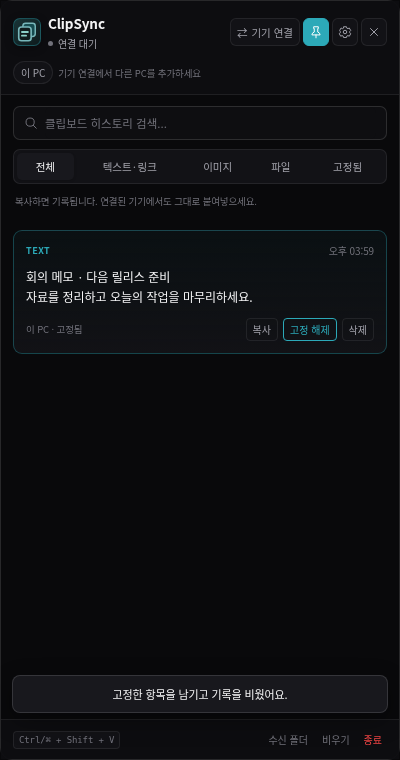
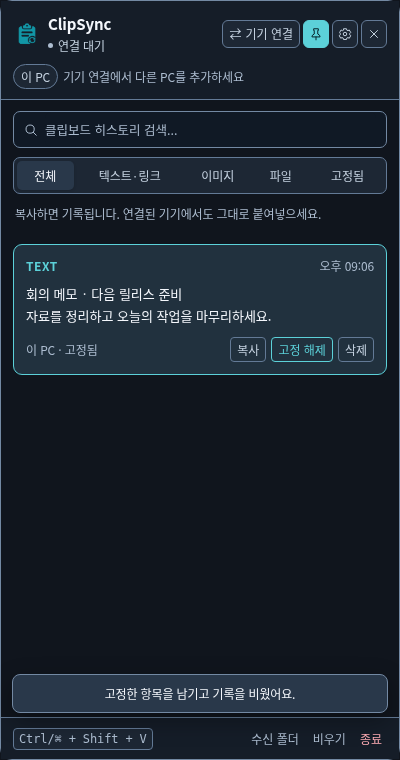
Correct Windows named startup lookup and document verified clipboard reuse

diff --git a/tests/login-startup.test.ts b/tests/login-startup.test.ts
@@ -3,14 +3,14 @@ import { test } from 'node:test';
 import { LoginStartup } from '../src/main/login-startup';
 
 function native(packaged = true) {
-  let state = { openAtLogin: false, wasOpenedAtLogin: false, executableWillLaunchAtLogin: false, status: 'not-registered' };
+  let state = { openAtLogin: false, wasOpenedAtLogin: false, executableWillLaunchAtLogin: false, status: 'not-registered', launchItems: [] as { name: string; scope: string; args: string[]; enabled: boolean }[] };
   const calls: Record<string, unknown>[] = [];
   const app = {
     isPackaged: packaged,
     getLoginItemSettings: (options: unknown) => { calls.push({ get: options }); return state; },
     setLoginItemSettings: (options: { openAtLogin: boolean; enabled?: boolean }) => {
       calls.push({ set: options });
-      state = { ...state, openAtLogin: options.openAtLogin, executableWillLaunchAtLogin: options.openAtLogin && options.enabled === true, status: options.openAtLogin ? 'enabled' : 'not-registered' };
+      state = { ...state, openAtLogin: options.openAtLogin, executableWillLaunchAtLogin: options.openAtLogin && options.enabled === true, status: options.openAtLogin ? 'enabled' : 'not-registered', launchItems: options.openAtLogin ? [{ name: 'ClipSync', scope: 'user', args: ['--startup'], enabled: options.enabled === true }] : [] };
     },
   } as unknown as ConstructorParameters<typeof LoginStartup>[0];
   return { app, calls, setState: (patch: Partial<typeof state>) => { state = { ...state, ...patch }; } };
@@ -20,12 +20,14 @@ test('Windows registers the installed executable and hidden-start argument, then
   const n = native(); const path = 'C:\\Users\\한글 이름\\Programs\\ClipSync\\ClipSync.exe';
   const startup = new LoginStartup(n.app, 'win32', path);
   startup.set(true); assert.equal(startup.info().startOnLogin, true);
-  assert.ok(n.calls.some(call => JSON.stringify(call.set) === JSON.stringify({ path, args: ['--startup'], openAtLogin: true, name: 'ClipSync', enabled: true })));
+  n.setState({ openAtLogin: false }); // Electron only queries its default AppUserModelID here.
+  assert.equal(startup.info().startOnLogin, true, 'The custom Run entry remains enabled');
+  assert.ok(n.calls.some(call => JSON.stringify(call.set) === JSON.stringify({ path: `"${path}"`, args: ['--startup'], openAtLogin: true, name: 'ClipSync', enabled: true })));
   startup.set(false); assert.equal(startup.info().startOnLogin, false);
 });
 
 test('Windows respects an externally disabled startup item until the user explicitly enables it', () => {
-  const n = native(); n.setState({ openAtLogin: true, executableWillLaunchAtLogin: false });
+  const n = native(); n.setState({ openAtLogin: false, executableWillLaunchAtLogin: false, launchItems: [{ name: 'ClipSync', scope: 'user', args: ['--startup'], enabled: false }] });
   const startup = new LoginStartup(n.app, 'win32');
   assert.deepEqual(startup.info(), { startOnLogin: false, startupStatus: 'blocked' });
   startup.set(true); assert.equal(startup.info().startupStatus, 'enabled');
@@ -45,4 +47,13 @@ test('development builds and unsupported systems never register Electron as a lo
     assert.equal(startup.startedAtLogin(), false); startup.set(false);
     assert.throws(() => startup.set(true), /설치된 Windows/); assert.deepEqual(n.calls, []);
   }
+});
+
+test('a native settings query failure does not prevent the desktop from starting', () => {
+  const n = native();
+  n.app.getLoginItemSettings = () => { throw new Error('Native service unavailable'); };
+  const startup = new LoginStartup(n.app, 'darwin');
+  assert.deepEqual(startup.info(), { startOnLogin: false, startupStatus: 'unavailable' });
+  assert.equal(startup.startedAtLogin(), false);
+  assert.throws(() => startup.set(true), /자동 시작 설정을 확인/);
 });

diff --git a/src/main/login-startup.ts b/src/main/login-startup.ts
@@ -4,15 +4,24 @@ import type { Preferences } from '../shared/history';
 type NativeLogin = Pick<App, 'isPackaged' | 'getLoginItemSettings' | 'setLoginItemSettings'>;
 export class LoginStartup {
   constructor(private readonly app: NativeLogin, private readonly platform = process.platform, private readonly executable = process.execPath) {}
-  private options() { return this.platform === 'win32' ? { path: this.executable, args: ['--startup'] } : {}; }
+  private options() { return this.platform === 'win32' ? { path: `"${this.executable}"`, args: ['--startup'] } : {}; }
   info(): Pick<Preferences, 'startOnLogin' | 'startupStatus'> {
     if (!this.app.isPackaged || !['win32', 'darwin'].includes(this.platform)) return { startOnLogin: false, startupStatus: 'unsupported' };
-    const native = this.app.getLoginItemSettings(this.options());
+    let native: Electron.LoginItemSettings;
+    try { native = this.app.getLoginItemSettings(this.options()); }
+    catch { return { startOnLogin: false, startupStatus: 'unavailable' }; }
+    if (this.platform === 'win32') {
+      // Electron's openAtLogin only looks up the default AppUserModelID key,
+      // even when setLoginItemSettings uses our custom name. launchItems also
+      // reflects Task Manager's approval state for this specific user entry.
+      const item = native.launchItems.find(item => item.scope === 'user' && item.name === 'ClipSync' && item.args.length === 1 && item.args[0] === '--startup');
+      return { startOnLogin: item?.enabled === true, startupStatus: !item ? 'disabled' : item.enabled ? 'enabled' : 'blocked' };
+    }
     if (this.platform === 'darwin' && native.status === 'requires-approval') return { startOnLogin: true, startupStatus: 'requires-approval' };
-    if (this.platform === 'win32' && native.openAtLogin && !native.executableWillLaunchAtLogin) return { startOnLogin: false, startupStatus: 'blocked' };
     return { startOnLogin: native.openAtLogin, startupStatus: native.openAtLogin ? 'enabled' : 'disabled' };
   }
   set(enabled: boolean) {
+    if (this.info().startupStatus === 'unavailable') throw new Error('자동 시작 설정을 확인할 수 없습니다. 시스템의 로그인 항목 설정을 확인해 주세요.');
     if (this.info().startupStatus === 'unsupported') {
       if (enabled) throw new Error('부팅 시 시작은 설치된 Windows·Mac 앱에서 사용할 수 있습니다.');
       return;
@@ -26,6 +35,8 @@ export class LoginStartup {
   }
   startedAtLogin() {
     if (this.info().startupStatus === 'unsupported') return false;
-    return process.argv.includes('--startup') || this.platform === 'darwin' && this.app.getLoginItemSettings(this.options()).wasOpenedAtLogin;
+    if (process.argv.includes('--startup')) return true;
+    try { return this.platform === 'darwin' && this.app.getLoginItemSettings(this.options()).wasOpenedAtLogin; }
+    catch { return false; }
   }
 }

diff --git a/tests/desktop.startup.ts b/tests/desktop.startup.ts
@@ -38,9 +38,10 @@ test('packaged app registers native login startup, restores it, starts hidden an
   await until(async () => !await page.locator('#settings-dialog').isVisible() || Boolean(await page.locator('#settings-error').textContent()));
   assert.equal(await page.locator('#settings-dialog').isVisible(), false, await page.locator('#settings-error').textContent() ?? 'Startup settings were not saved');
   await until(async () => (await page.evaluate(() => window.clipSync.preferences())).startOnLogin);
-  const settings = await app!.evaluate(({ app }) => app.getLoginItemSettings(process.platform === 'win32' ? { path: process.execPath, args: ['--startup'] } : {}));
+  const settings = await app!.evaluate(({ app }) => app.getLoginItemSettings(process.platform === 'win32' ? { path: `"${process.execPath}"`, args: ['--startup'] } : {}));
   if (process.platform === 'win32') {
-    assert.equal(settings.openAtLogin, true); assert.equal(settings.executableWillLaunchAtLogin, true);
+    assert.equal(settings.executableWillLaunchAtLogin, true);
+    assert.ok(settings.launchItems.some(item => item.name === 'ClipSync' && item.scope === 'user' && item.enabled && item.args[0] === '--startup'));
     const registry = await promisify(execFile)('reg.exe', ['query', 'HKCU\\Software\\Microsoft\\Windows\\CurrentVersion\\Run', '/v', 'ClipSync']);
     assert.ok(registry.stdout.includes('--startup')); assert.ok(registry.stdout.includes('ClipSync.exe'));
   } else {
@@ -62,6 +63,7 @@ test('packaged app registers native login startup, restores it, starts hidden an
   await page.getByRole('checkbox', { name: '부팅 시 시작', exact: true }).uncheck();
   await page.getByRole('button', { name: '설정 저장' }).click();
   await until(async () => !(await page.evaluate(() => window.clipSync.preferences())).startOnLogin);
-  const disabled = await app!.evaluate(({ app }) => app.getLoginItemSettings(process.platform === 'win32' ? { path: process.execPath, args: ['--startup'] } : {}));
-  assert.equal(disabled.openAtLogin, false);
+  const disabled = await app!.evaluate(({ app }) => app.getLoginItemSettings(process.platform === 'win32' ? { path: `"${process.execPath}"`, args: ['--startup'] } : {}));
+  if (process.platform === 'win32') assert.ok(!disabled.launchItems.some(item => item.name === 'ClipSync' && item.scope === 'user'));
+  else assert.equal(disabled.openAtLogin, false);
 });

diff --git a/src/renderer/index.ts b/src/renderer/index.ts
@@ -156,8 +156,8 @@ for (const id of ['open-connection', 'open-settings']) element(id).addEventListe
     element<HTMLInputElement>('shortcut-setting').value = preferences.shortcut;
     const startup = element<HTMLInputElement>('start-on-login');
     startup.checked = preferences.startOnLogin;
-    startup.disabled = preferences.startupStatus === 'unsupported';
-    element('startup-note').textContent = preferences.startupStatus === 'requires-approval' ? '시스템 설정 > 일반 > 로그인 항목에서 ClipSync를 허용해 주세요.' : preferences.startupStatus === 'blocked' ? 'Windows 설정 > 앱 > 시작 프로그램에서 ClipSync를 허용해 주세요.' : preferences.startupStatus === 'unsupported' ? '부팅 시 시작은 설치된 Windows·Mac 앱에서 사용할 수 있습니다.' : '컴퓨터에 로그인하면 트레이·메뉴바에서 자동으로 시작합니다.';
+    startup.disabled = preferences.startupStatus === 'unsupported' || preferences.startupStatus === 'unavailable';
+    element('startup-note').textContent = preferences.startupStatus === 'requires-approval' ? '시스템 설정 > 일반 > 로그인 항목에서 ClipSync를 허용해 주세요.' : preferences.startupStatus === 'blocked' ? 'Windows 설정 > 앱 > 시작 프로그램에서 ClipSync를 허용해 주세요.' : preferences.startupStatus === 'unavailable' ? '자동 시작 설정을 확인할 수 없습니다. 시스템의 로그인 항목 설정을 확인해 주세요.' : preferences.startupStatus === 'unsupported' ? '부팅 시 시작은 설치된 Windows·Mac 앱에서 사용할 수 있습니다.' : '컴퓨터에 로그인하면 트레이·메뉴바에서 자동으로 시작합니다.';
     settings.showModal();
   }
 });

diff --git a/src/shared/history.ts b/src/shared/history.ts
@@ -17,7 +17,7 @@ export interface Preferences {
   theme: 'system' | 'dark' | 'light';
   alwaysOnTop: boolean;
   startOnLogin: boolean;
-  startupStatus?: 'unsupported' | 'disabled' | 'enabled' | 'requires-approval' | 'blocked';
+  startupStatus?: 'unsupported' | 'unavailable' | 'disabled' | 'enabled' | 'requires-approval' | 'blocked';
   shortcut: string;
   shortcutAvailable?: boolean;
 }

diff --git a/README.md b/README.md
@@ -9,9 +9,11 @@
 1. 앱을 열고 평소처럼 텍스트, 스크린샷 또는 파일을 복사하세요. 기록을 클릭하거나 **복사**를 누르면 다시 클립보드에 들어갑니다.
 2. 검색, 텍스트·이미지·파일 탭, **고정**으로 필요한 기록을 찾으세요. **비우기**는 고정한 항목을 남기며 원본 파일을 지우지 않습니다.
 3. **기기 연결**에서 영문·숫자 20자리 **연결 키**와 8자 이상의 **비밀번호**를 입력합니다. 한 PC에서 **새 키 만들기**를 누른 뒤 모든 PC에 같은 키와 비밀번호를 입력하세요. 대소문자를 구분하며 한글 비밀번호는 NFC로 정규화합니다.
-4. 각 PC는 동등한 P2P 참여자입니다. 전용 중계 서버나 master PC 없이 같은 네트워크에서는 즉시 직접 탐색하고, 외부망에서는 공개 DHT 탐색을 병행합니다. 직접 연결된 PC 사이에서 암호화한 클립보드를 주고받습니다. 새로 복사한 파일은 다운로드 폴더의 `ClipSync`에 완전히 받은 다음 파일 클립보드에 등록합니다.
+4. 각 PC는 동등한 P2P 참여자입니다. 전용 중계 서버나 master PC 없이 같은 네트워크에서는 즉시 직접 탐색하고, 외부망에서는 공개 DHT 탐색을 병행합니다. 직접 연결된 PC 사이에서 암호화한 클립보드를 주고받습니다. 새로 복사한 파일은 다운로드 폴더의 `ClipSync`에 완전히 받은 다음 파일 클립보드에 등록합니다. 이미 받은 동일 파일은 이름·크기·SHA-256을 확인해 재사용하며, 양쪽이 0.4.6이면 파일 데이터 재전송도 생략합니다.
 5. 한 번 저장한 연결은 앱 재실행·절전 복귀·상대 PC 재실행 후 다시 찾습니다. **연결 해제 및 저장 삭제**를 누르면 이 PC의 자동 연결을 해제합니다. 다른 PC의 설정은 그대로 남으므로 그룹 접근 자체를 바꾸려면 키와 비밀번호를 변경하세요.
 6. 상단 로고와 빈 제목 영역을 드래그하면 창이 이동하며 위치를 기억합니다. 톱니 아이콘으로 환경설정을 엽니다. ×와 Esc는 창을 숨기고, 트레이/메뉴 막대 또는 기본 단축키 `Ctrl/⌘ + Shift + V`로 다시 엽니다. Mac은 숨길 때 Dock에서 빠지고 메뉴바에 남으며, 다시 열면 Dock에 표시됩니다. 오른쪽 아래 **종료**는 앱과 연결을 모두 종료합니다. 저장한 연결은 다음 실행에 복원됩니다.
+
+환경설정의 **부팅 시 시작**을 체크하면 로그인 후 창을 띄우지 않고 트레이·메뉴바에서 시작합니다. 해제하면 OS 자동 시작 등록을 제거합니다. Mac에서 승인이 필요하면 설정 화면의 안내를 따르세요. 창 고정은 상단 핀 버튼으로 사용할 수 있습니다.
 
 기기 연결에서 **일시정지**하면 새 내용의 동기화와 자동 파일 수신을 멈춥니다. 재개할 때 중간에 복사한 개인 내용을 다시 보내지 않습니다. 진행 중인 자동 동기화도 취소합니다. 다른 PC끼리의 직접 연결에는 영향을 주지 않습니다.
 
@@ -89,11 +91,11 @@ npm run test:pair
 
 ## 설치 파일과 검증
 
-[GitHub Releases](https://github.com/limfrog/ClipSync/releases)에서 자기 OS/CPU에 맞는 설치 파일과 `SHA256SUMS.txt`를 받을 수 있습니다. `v0.4.5`는 창 상단 여백에서도 드래그할 수 있도록 수정하고 [투명 배경의 새 A 아이콘](docs/icon-concepts.md)을 적용한 버전입니다. Mac 메뉴바는 배경에 맞춰 흰색·검은색으로 표시되는 단색 템플릿을 사용합니다. 멀티캐스트·브로드캐스트·외부 P2P 탐색과 저장된 연결은 계속 사용합니다. 0.4.0의 저장된 키·비밀번호는 유지합니다. 설치 전 기존 앱을 **종료**하세요. 배포자 인증서 서명과 Apple 공증은 포함하지 않습니다.
+[GitHub Releases](https://github.com/limfrog/ClipSync/releases)에서 자기 OS/CPU에 맞는 설치 파일과 `SHA256SUMS.txt`를 받을 수 있습니다. `v0.4.6`는 [중복 수신 방지·화면 대비와 글자 크기 개선·부팅 시 시작](docs/receipt-startup-verification.md)을 포함합니다. 상단 드래그와 [투명 배경 A 아이콘](docs/icon-concepts.md)도 유지합니다. Mac 메뉴바는 배경에 맞춰 흰색·검은색으로 표시되는 단색 템플릿을 사용합니다. 멀티캐스트·브로드캐스트·외부 P2P 탐색과 저장된 연결은 계속 사용합니다. 0.4.0의 저장된 키·비밀번호는 유지합니다. 설치 전 기존 앱을 **종료**하세요. 배포자 인증서 서명과 Apple 공증은 포함하지 않습니다.
 
 같은 공유기에 연결한 Mac과 Windows에서는 [실물 검증 절차](docs/physical-verification.md)를 따라 **연결 상태 복사** 보고서와 양방향 붙여넣기 결과를 비교할 수 있습니다.
 
-검증 범위와 결과는 [0.4.5 창 이동 검증 기록](docs/window-drag-verification.md), [0.4.4 브로드캐스트 검증 기록](docs/broadcast-discovery-verification.md), [0.4.3 발견 속도 검증 기록](docs/discovery-verification.md) 및 [0.4.0 P2P 검증 기록](docs/p2p-verification.md), 빌드 설정은 [설치 프로그램 안내](docs/installers.md)를 참고하세요. 연결되지 않으면 모든 PC의 키·비밀번호·버전이 일치하는지, UDP와 공개 DHT 접근이 허용되는지 확인하세요. 일부 네트워크는 직접 P2P 연결을 지원하지 않습니다.
+검증 범위와 결과는 [0.4.6 중복 수신·자동 시작 검증](docs/receipt-startup-verification.md), [0.4.5 창 이동 검증 기록](docs/window-drag-verification.md), [0.4.4 브로드캐스트 검증 기록](docs/broadcast-discovery-verification.md), [0.4.3 발견 속도 검증 기록](docs/discovery-verification.md) 및 [0.4.0 P2P 검증 기록](docs/p2p-verification.md), 빌드 설정은 [설치 프로그램 안내](docs/installers.md)를 참고하세요. 연결되지 않으면 모든 PC의 키·비밀번호·버전이 일치하는지, UDP와 공개 DHT 접근이 허용되는지 확인하세요. 일부 네트워크는 직접 P2P 연결을 지원하지 않습니다.
 
 ## 데이터 처리와 참고 원본
 

diff --git a/docs/receipt-startup-verification.md b/docs/receipt-startup-verification.md
@@ -1,0 +1,33 @@
+# 0.4.6 중복 수신·가독성·자동 시작
+
+## 중복 파일
+
+수신 위치의 파일명·크기로 후보를 좁힌 뒤 스트리밍 SHA-256을 비교합니다. 기존 `(1)`, `(2)` 파일과 NFC/NFD 한글 이름도 확인합니다. 폴더의 모든 파일 내용을 해시하지 않으며 저장된 예전 해시를 신뢰하지 않습니다. 검사 전후와 재사용 직전에 파일 ID·크기·수정/변경 시각을 나노초 단위로 확인하고 심볼릭 링크는 재사용하지 않습니다.
+
+새 송신 측의 `offer.reuse`와 수신 측 `accept.have`가 확인된 경우 본문 없이 기존 `finish`/`done` 완료 절차를 거칩니다. 실제 데이터 전송량은 0바이트이며 클립보드는 기존 경로를 가리키도록 갱신합니다. 비교 후 파일이 삭제·변경되면 정상 데이터 전송을 다시 요청합니다. 내용이 다른 파일은 기존 덮어쓰기 방지를 유지합니다.
+
+구버전 송신 측은 기존 절차대로 받고 저장 직전에 비교해 중복 파일 생성을 막습니다. 구버전 수신 측은 새 선택적 필드를 무시하고 정상 전송을 받습니다. 자동 수신은 순서대로 처리해 여러 기기가 같은 파일을 동시에 보낼 때 첫 수신 완료 파일을 다음 수신이 재사용합니다. 일반 수동 수신이 겹친 경우에도 최종 저장 시 비교합니다.
+
+### 실행한 검사 · 2026-10-21 (Asia/Seoul)
+
+- 단위·소켓·미디어 검사: 동일 파일의 실제 데이터 조각 0개, 같은 크기의 다른 내용 보존, 번호가 붙은/NFD 파일, 재시작 후 재사용, 삭제·변경·심볼릭 링크, 비교 후 삭제 시 재수신, 구버전 전송과 동시 자동 수신을 확인했습니다.
+- 실제 500,000,000바이트 한글 프로그램을 암호화 소켓으로 전송하고 SHA-256을 대조했습니다. 다시 보냈을 때 데이터 조각 0개·중복 저장 0개·양쪽 전송량 0바이트를 확인했습니다.
+- 같은 클라우드 환경의 이 검사에서는 최초 전송과 해시 대조에 10,533ms, 중복 판정과 재사용에 1,355ms가 걸렸습니다. 첫 값에는 전송 후 독립 해시 대조도 포함됩니다. 메모리 RSS 증가량은 115,290,112바이트였습니다. 사용자 PC와 실제 내부/외부망의 속도를 보장하는 수치는 아닙니다.
+- 별도 디스플레이와 OS 클립보드를 가진 패키징 앱 두 개에서도 500MB 전송과 다시 복사 시 기존 파일 재사용을 확인했습니다. 12개 통합 항목 모두 성공했고 한글·이미지·양방향 붙여넣기·재연결도 확인했습니다.
+- Linux에서 실제 포인터 창 이동, 보안 저장소와 재실행 후 연결·위치 복원 검사를 통과했습니다.
+
+## 가독성
+
+본문 13px, 보조 글자 최소 12px로 키웠습니다. 배경·버튼·입력 테두리를 구분하고 보조 글자를 더 진하게 표시합니다. 청록색 강조와 투명 아이콘은 유지합니다. 실제 Electron 화면의 주요·보조 글자와 버튼 21곳에서 계산한 최소 대비는 다크 6.97:1, 라이트 5.71:1로 각각 4.5:1 기준을 넘었습니다.
+
+[다크 실제 화면](screenshots/clipboard-dark.png) · [라이트 실제 화면](screenshots/clipboard-light.png)
+
+## 부팅 시 시작
+
+설치된 Windows·Mac 앱에서 사용자가 체크할 때만 OS 로그인 항목을 등록하고, 해제하면 제거합니다. 컴퓨터의 사용자 로그인 후 창을 띄우지 않고 트레이·메뉴바에서 시작합니다. 저장된 연결도 복원합니다. 중복 프로세스를 막고 사용자가 다시 실행하면 기존 창을 엽니다. 환경설정의 고정 체크박스는 교체했으며 상단 핀 버튼은 유지합니다.
+
+운영체제의 실제 상태를 설정 화면을 열 때 다시 읽습니다. Windows 시작 앱에서 사용자가 끈 항목을 임의로 다시 켜지 않으며, Mac의 `requires-approval` 상태에는 시스템 설정 안내를 표시합니다. 자동 시작 조회 실패가 앱 실행을 막지 않도록 처리합니다. 개발용 Electron을 실수로 자동 시작에 등록하지 않습니다. 기존 설정 파일에 새 필드가 없어도 테마·단축키·상단 핀을 유지합니다.
+
+Windows에서는 사용자 Run 키의 `ClipSync` 항목과 승인 상태를 확인합니다. Electron의 `openAtLogin`은 기본 AppUserModelID만 조회하므로 사용자 지정 이름에는 `launchItems`를 확인합니다. 경로에 공백·한글이 있어도 정상적으로 조회·실행되도록 따옴표를 처리합니다. 제거 프로그램도 이 앱의 자동 시작 항목을 삭제합니다.
+
+CI는 Windows의 실제 패키지와 `/Applications/ClipSync.app`에 설치한 Intel Mac 패키지에서 체크·실제 OS 등록 조회·재실행·숨김 시작·중복 실행 방지·등록 해제를 검사하도록 구성했습니다. OS별 최종 결과와 배포 다운로드 검증은 완료 후 아래에 기록합니다. 운영체제 재부팅·로그아웃/로그인 자체를 수행하는 검사는 아닙니다.

diff --git a/docs/release-notes.md b/docs/release-notes.md
@@ -1,11 +1,13 @@
-# ClipSync 0.4.5 · 창 상단 드래그와 새 아이콘
+# ClipSync 0.4.6 · 중복 수신 방지·가독성·부팅 시 시작
 
-제목 줄 위쪽 여백을 잡아도 창을 이동할 수 있도록 드래그 영역을 넓혔습니다. 설정·고정·숨김 버튼은 클릭할 수 있고, 기기 목록은 가로 스크롤을 유지합니다.
+이미 받은 파일은 이름·크기와 SHA-256을 확인해 기존 파일을 재사용합니다. 양쪽이 0.4.6이면 파일 데이터 재전송을 생략하면서 클립보드는 기존 파일로 갱신합니다. 내용이 다른 동명 파일은 별도로 보관합니다. 한글 파일명과 번호가 붙은 기존 파일, 재시작 이후에도 비교하며 삭제·변경된 파일은 다시 받습니다. 0.4.5와 연결하면 정상 전송 후 중복 저장을 방지합니다.
 
-투명 배경에 청록색 클립보드·동기화 심볼을 담은 새 A 아이콘을 앱 로고와 Windows·Mac 설치 아이콘에 반영했습니다. Mac 메뉴바는 배경에 따라 흰색·검은색으로 표시되는 단색 템플릿을 사용합니다.
+다크·라이트 화면의 글자와 버튼·입력창 경계를 더 선명하게 바꿨습니다. 본문은 13px, 보조 글자는 최소 12px로 키웠습니다.
 
-[검증 기록](https://github.com/limfrog/ClipSync/blob/main/docs/window-drag-verification.md) · [아이콘 디자인](https://github.com/limfrog/ClipSync/blob/main/docs/icon-concepts.md)
+환경설정의 ‘창 항상 위에 고정’을 ‘부팅 시 시작’으로 교체했습니다. 체크하면 사용자 로그인 후 트레이·메뉴바에서 자동으로 시작하고, 해제하면 자동 시작 등록을 제거합니다. Mac에서 시스템 승인이 필요한 경우 설정 화면에 안내합니다. 상단의 핀 버튼은 유지합니다. 저장한 연결은 그대로 복원하며 앱 중복 실행을 방지합니다.
 
-업데이트 전 양쪽 앱을 오른쪽 아래 **종료**로 완전히 닫으세요. ×는 창을 숨기는 동작입니다. 저장한 연결 키·비밀번호는 유지됩니다.
+[기능과 검증 기록](https://github.com/limfrog/ClipSync/blob/main/docs/receipt-startup-verification.md)
 
-Windows x64: `ClipSync-0.4.5-Windows-x64-Setup.exe` · Apple Silicon: `ClipSync-0.4.5-macOS-arm64.pkg` · Intel Mac: `ClipSync-0.4.5-macOS-x64.pkg`. SHA-256은 `SHA256SUMS.txt`에서 확인하세요. Windows 배포자 인증서 서명·Apple 공증은 포함하지 않으며, macOS 앱은 ad-hoc 서명입니다.
+설치 전 기존 앱을 오른쪽 아래 **종료**로 완전히 닫으세요. ×는 창을 숨깁니다. 키·비밀번호와 기존 설정은 유지합니다. 중복 파일의 데이터 전송 생략은 양쪽 앱을 업데이트하면 사용할 수 있습니다.
+
+Windows x64: `ClipSync-0.4.6-Windows-x64-Setup.exe` · Apple Silicon: `ClipSync-0.4.6-macOS-arm64.pkg` · Intel Mac: `ClipSync-0.4.6-macOS-x64.pkg`. `SHA256SUMS.txt`를 제공합니다. Windows 배포자 인증서 서명·Apple 공증은 포함하지 않으며, Mac 앱은 ad-hoc 서명입니다.

diff --git a/docs/duplicate-file-review.md b/docs/duplicate-file-review.md
@@ -1,6 +1,6 @@
 # 수신 파일 중복 저장 검토
 
-2026-10-21 (Asia/Seoul). 코드 검토 결과이며, 이 문서의 중복 수신 방지 기능은 0.4.5에 구현되지 않았습니다.
+2026-10-21 (Asia/Seoul). 아래는 0.4.5 시점의 코드 검토 기록입니다. 이후 0.4.6에서 중복 수신 방지를 구현했으며 [구현과 검증 기록](receipt-startup-verification.md)에 정리했습니다.
 
 ## 결론
 
